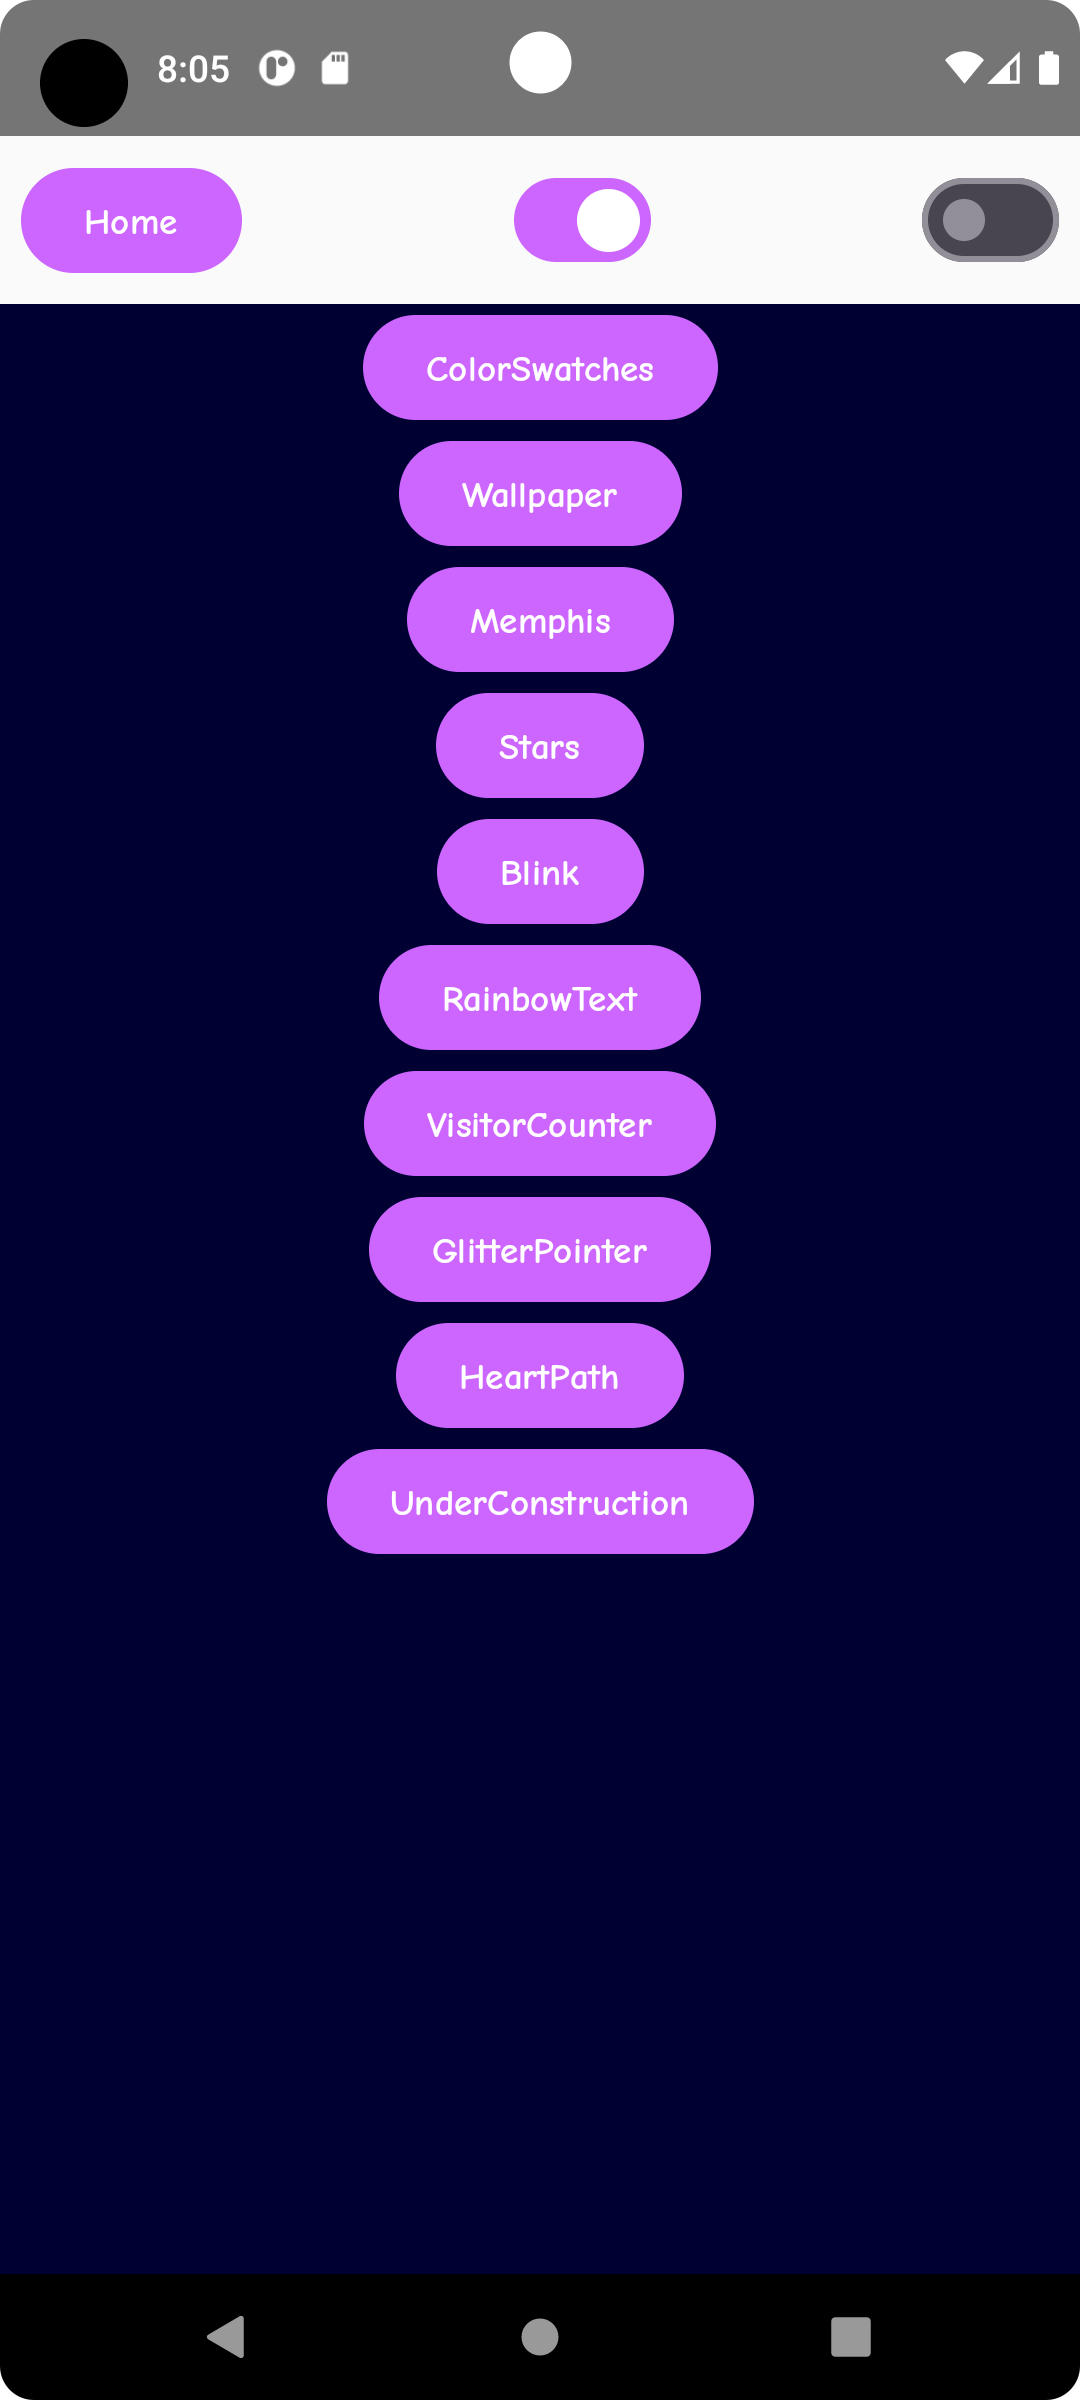
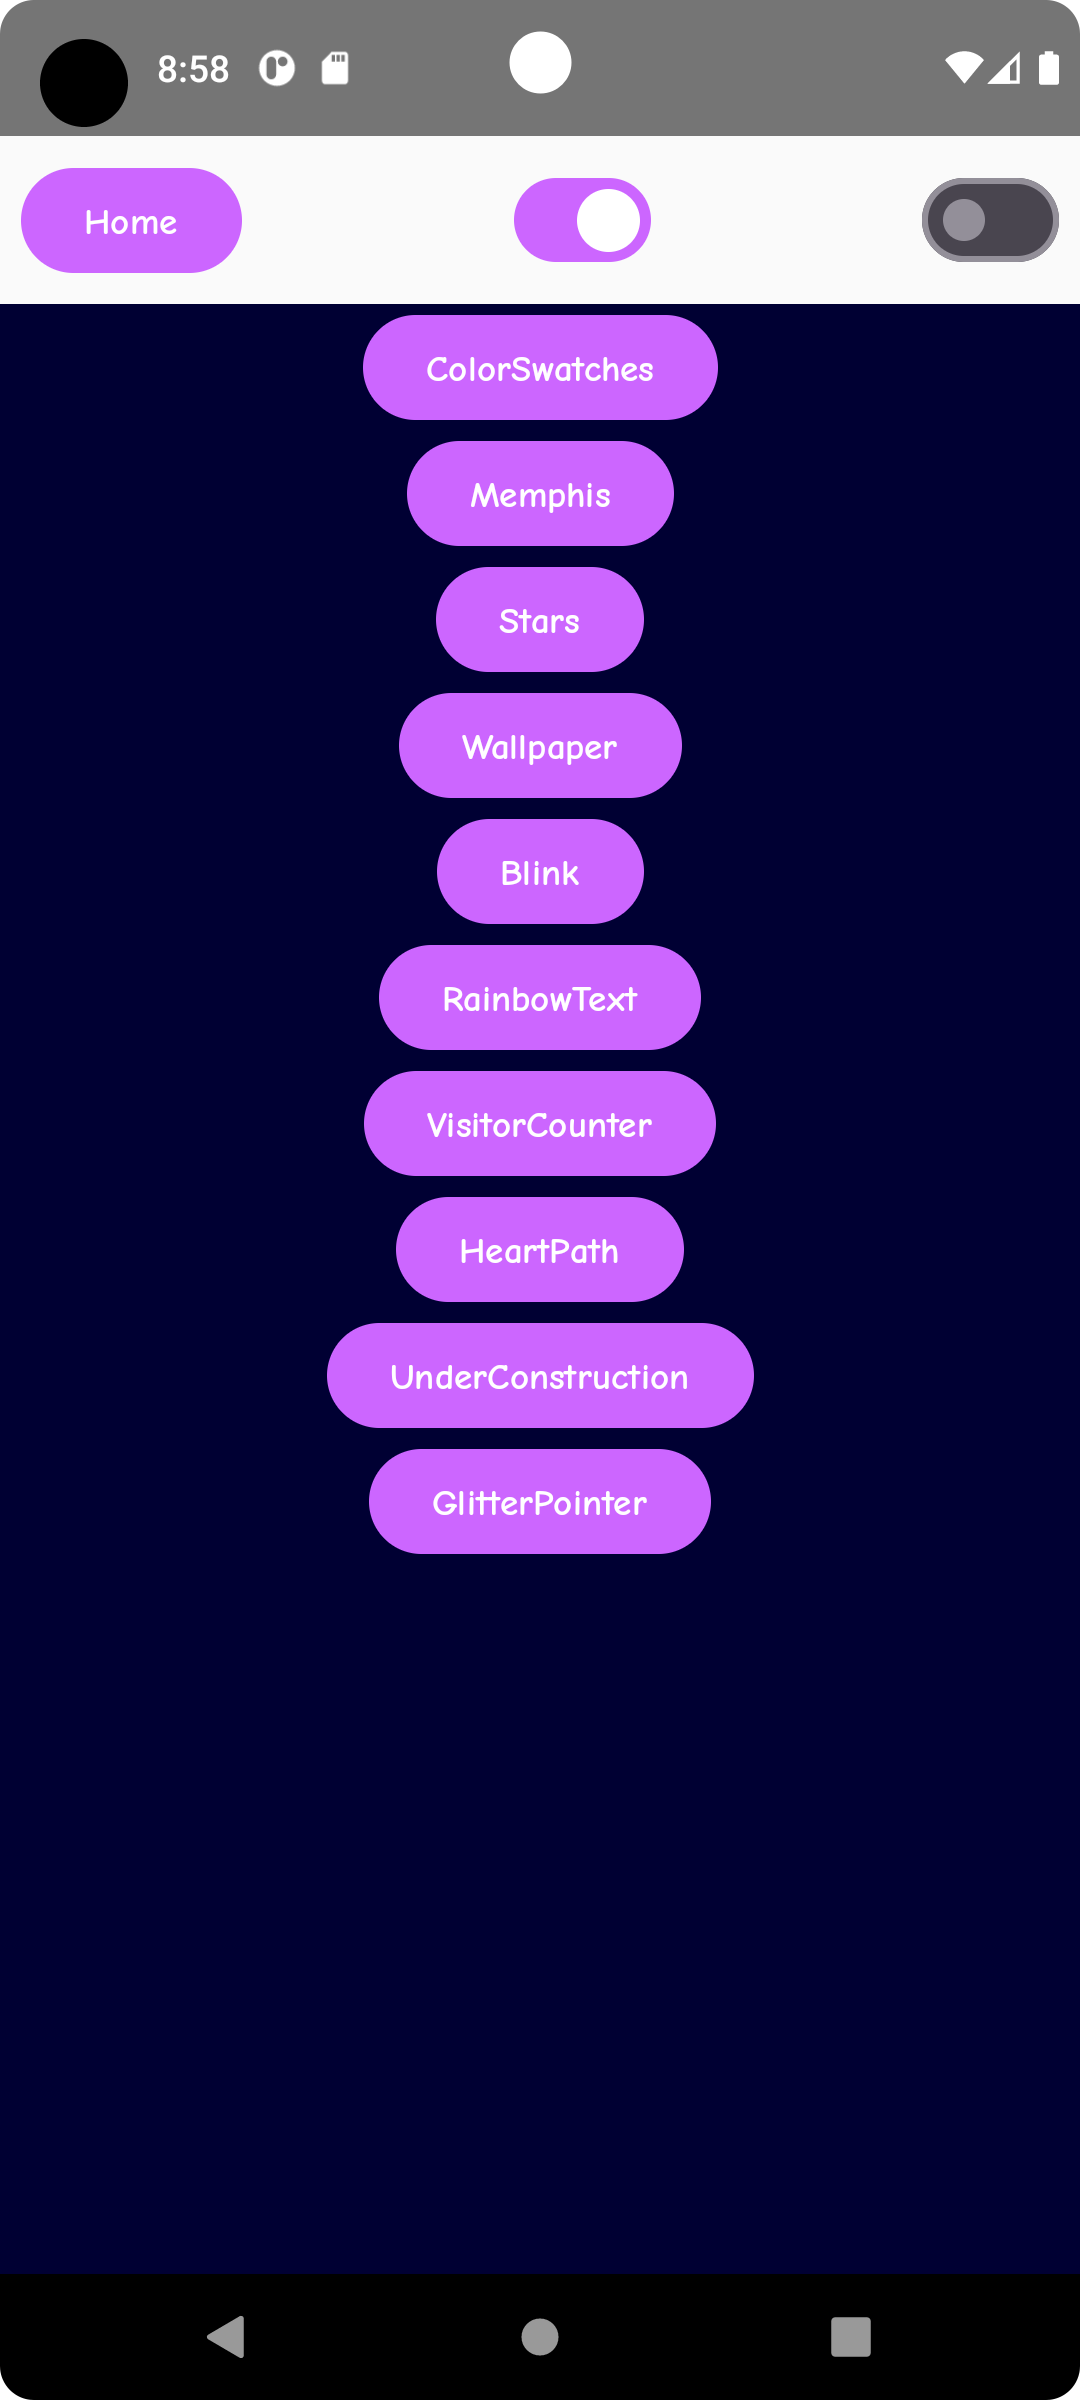
screenshots and links

diff --git a/common/src/commonMain/kotlin/net/maiatoday/giith/mybookmarks/MyBookmarksScreen.kt b/common/src/commonMain/kotlin/net/maiatoday/giith/mybookmarks/MyBookmarksScreen.kt
@@ -86,7 +86,9 @@ fun LinkItem(link: Bookmark) {
     }
 }
 
-data class Bookmark(val text: String, val url: String, val isHot: Boolean, val isNew: Boolean)
+data class Bookmark(val text: String, val url: String, val isHot: Boolean, val isNew: Boolean) {
+    fun toMarkDown():String = "[$text]($url)"
+}
 
 val Inspiration = listOf(
     Bookmark(text = "Cameron's World", url = "https://www.cameronsworld.net/", isHot = true, isNew = true),

diff --git a/common/src/commonMain/kotlin/net/maiatoday/giith/navigation/Screen.kt b/common/src/commonMain/kotlin/net/maiatoday/giith/navigation/Screen.kt
@@ -3,15 +3,15 @@ package net.maiatoday.giith.navigation
 enum class Screen {
     Home,
     ColorSwatches,
-    Wallpaper,
     Memphis,
     Stars,
+    Wallpaper,
     Blink,
     RainbowText,
     VisitorCounter,
-    GlitterPointer,
     HeartPath,
     UnderConstruction,
+    GlitterPointer,
     GuestBook,
     MyBookmarks,
 }

diff --git a/README.md b/README.md
@@ -1,12 +1,87 @@
 # Groove is in the Heart
 
 90s Aesthetic multiplatform project to explore the Compose animation project.
-Android and Desktop for a start. No iOS yet.
+Android and Desktop for a start.
 
 Form follows Fun~~ction~~
 
 The title of this project reference is a dance hit from the 90s [Groove is in the Heart by Deee-lite](https://en.wikipedia.org/wiki/Groove_Is_in_the_Heart). Because of the 90s reference but also because there are a few heart paths in the samples. 
 
-Listen to this playlist to get into the groove.
+Listen to this playlist to get into the groove. This project has various sample screens that demonstrate the individual techniques used to emulate a 90s website. On the top bar you can navigate home from the examples, change the font and switch into the final version of the homes screen which incorporates all the examples.
+
+For more info also see the slides and talk which was first presented at Android Makers x Droidcon 2023.
+
+# Running the project
+## Desktop
+Clone and run
+
+`gradle run`
+
+## Android
+Run the android project in Intellij or Android Studio
+
+# Links
+
+## History 1980s
+
+[Memphis Design Museum](https://designmuseum.org/memphis#)
+
+[Memphis Designn](https://99designs.com/blog/design-history-movements/memphis-design/)
+
+[Memphis Design influences](https://artincontext.org/memphis-design/)
+
+[Ettore Sottsass](https://en.wikipedia.org/wiki/Ettore_Sottsass)
+
+[History of GIF](https://en.wikipedia.org/wiki/GIF)
+
+[Troll doll](https://en.wikipedia.org/wiki/Troll_doll)
+
+[My little pony in the 80s](https://www.youtube.com/watch?v=kj6_ozMntpU)
+
+[How to solve a Rubik's cube](https://www.speedcube.com.au/pages/how-to-solve-a-rubiks-cube)
+
+[The origin of the 80s aesthetic](https://youtu.be/TCI8lPvr6SM)
+
+## Inspiration 1990s
+
+[Cameron's World](https://www.cameronsworld.net/)
+
+[Gifcities](https://gifcities.org/)
+
+[Web safe colours](https://www.rapidtables.com/web/color/Web_Safe.html)
+
+[Browser History](https://en.wikipedia.org/wiki/History_of_the_web_browser)
+
+[Free tiling backgrounds](https://1-background.com/stars_1.htm)
+
+[90s cursor effects](https://tholman.com/cursor-effects/)
+
+[Dancing baby history](https://en.wikipedia.org/wiki/Dancing_baby)
+
+[Groove is in the Heart](https://en.wikipedia.org/wiki/Groove_Is_in_the_Heart)
+
+[Geocities Torrent](https://blog.geocities.institute/)
+
+[Old browser emulators](https://oldweb.today/?browser=ns3-mac#http://geocities.com/)
+
+## Tools 2023
+
+[Github for this project](https://github.com/maiatoday/GrooveIsInTheHeart)
+
+[Maia's website](https://maiatoday.net)
+
+[Cheesy 90s playlist](https://open.spotify.com/playlist/0u9TVKOBdWxcdhPlINVBDD?nd=1)
+
+[Poisson Disk Sampling](https://www.jasondavies.com/poisson-disc/)
+
+[Jetpack Compose animation](https://developer.android.com/jetpack/compose/animation)
+
+[Compose Multiplatform](https://github.com/JetBrains/compose-multiplatform)
+
+[How to handle resources in Compose multiplatform](https://www.netguru.com/blog/kotlin-multiplatform-resources)
+
+[Compose multiplatform sample projects](https://github.com/JetBrains/compose-multiplatform/blob/master/examples/README.md)
+
+[Made with compose sample](https://twitter.com/halilozercan/status/1541792011539431424?lang=en)
 
 
